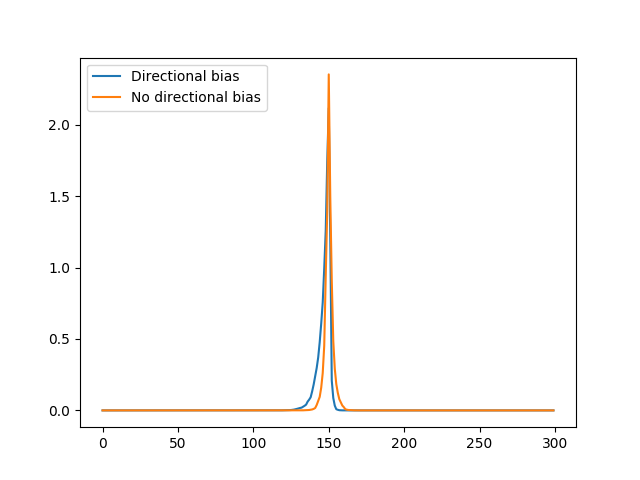
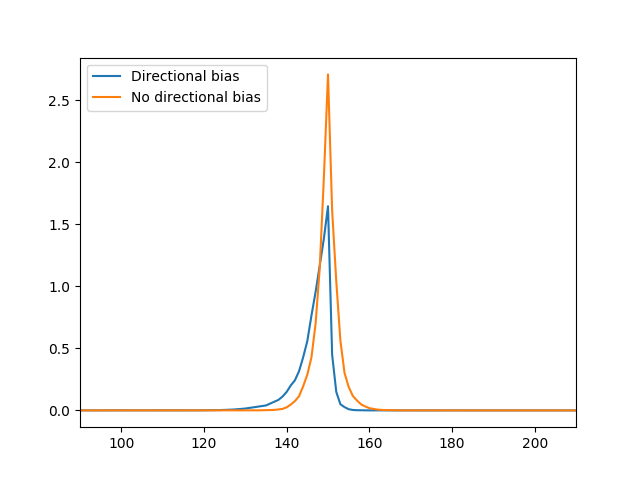
draw figure 3b. reset xlim

diff --git a/figure3b.py b/figure3b.py
@@ -17,6 +17,10 @@ import sr
 MAZE_LENGTH = 300 # p.8 of supplement, 
 
 SR_POINT = int(MAZE_LENGTH * 0.50)
+# set xlim for plot.
+X_LT = int(MAZE_LENGTH * 0.3)
+X_RT = int(MAZE_LENGTH * 0.7)
+
 
 maze = mm.make_1D(MAZE_LENGTH)
 
@@ -109,6 +113,7 @@ def figure_3b():
     for idx in range(len(bias_sr_matrix)):
         plt.plot(bias_sr_matrix[idx])
     plt.legend(for_legend, loc = 'upper left')
+    plt.xlim(X_LT, X_RT)
     # plt.savefig('./images/sr_histroy_' + str(MAZE_LENGTH) + '.png')
     plt.savefig('./images/figure3b.png')
 
